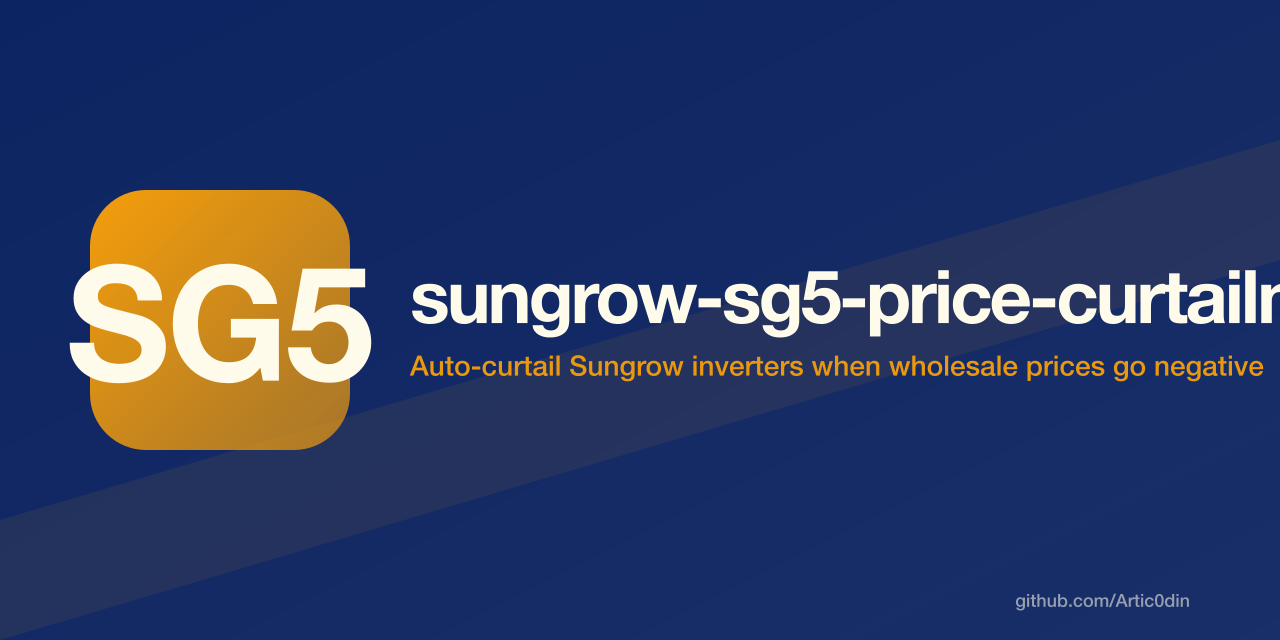
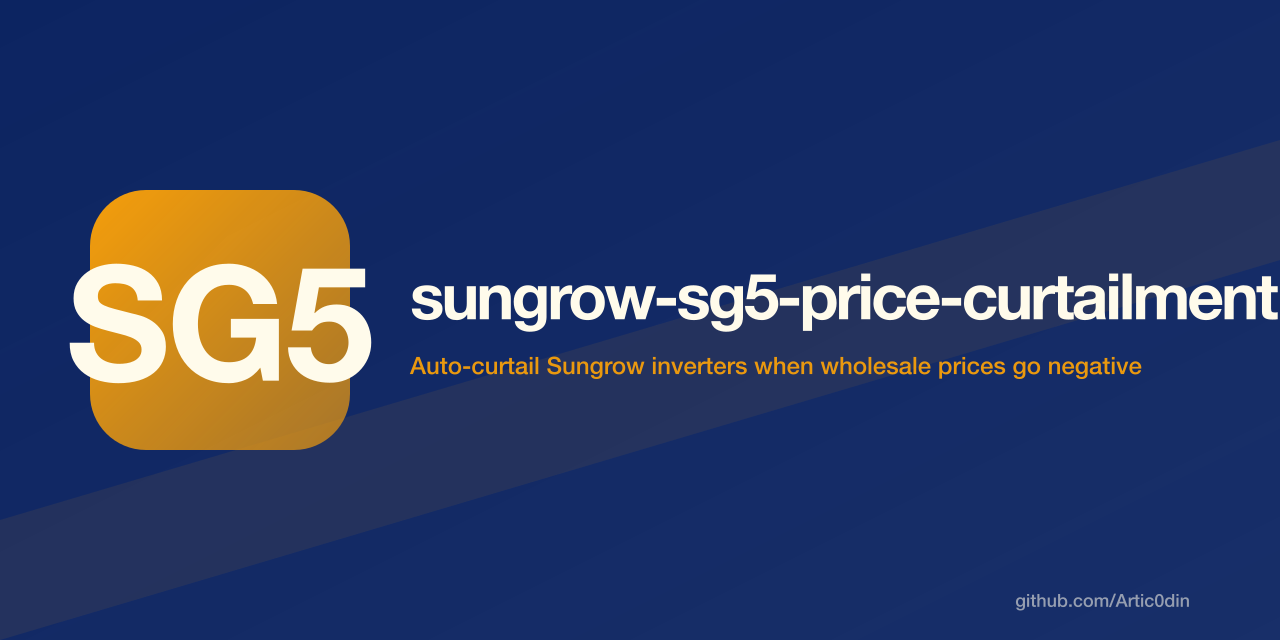
fix(branding): prevent wordmark text clipping
Use scalable README artwork, remove duplicate tagline copy, widen the wordmark canvas, and reduce social-preview typography so all text remains within its image bounds.

Changed region(s): [[0.3125, 0.4062, 1.0, 0.5938]]

diff --git a/README.md b/README.md
@@ -1,9 +1,5 @@
 <p align="center">
-  <img src="assets/logo-wordmark.png" alt="sungrow-sg5-price-curtailment" width="640">
-</p>
-
-<p align="center">
-  <em>Auto-curtail Sungrow inverters when wholesale prices go negative</em>
+  <img src="assets/logo-wordmark.svg" alt="sungrow-sg5-price-curtailment - Auto-curtail Sungrow inverters when wholesale prices go negative" width="640">
 </p>
 
 ---
